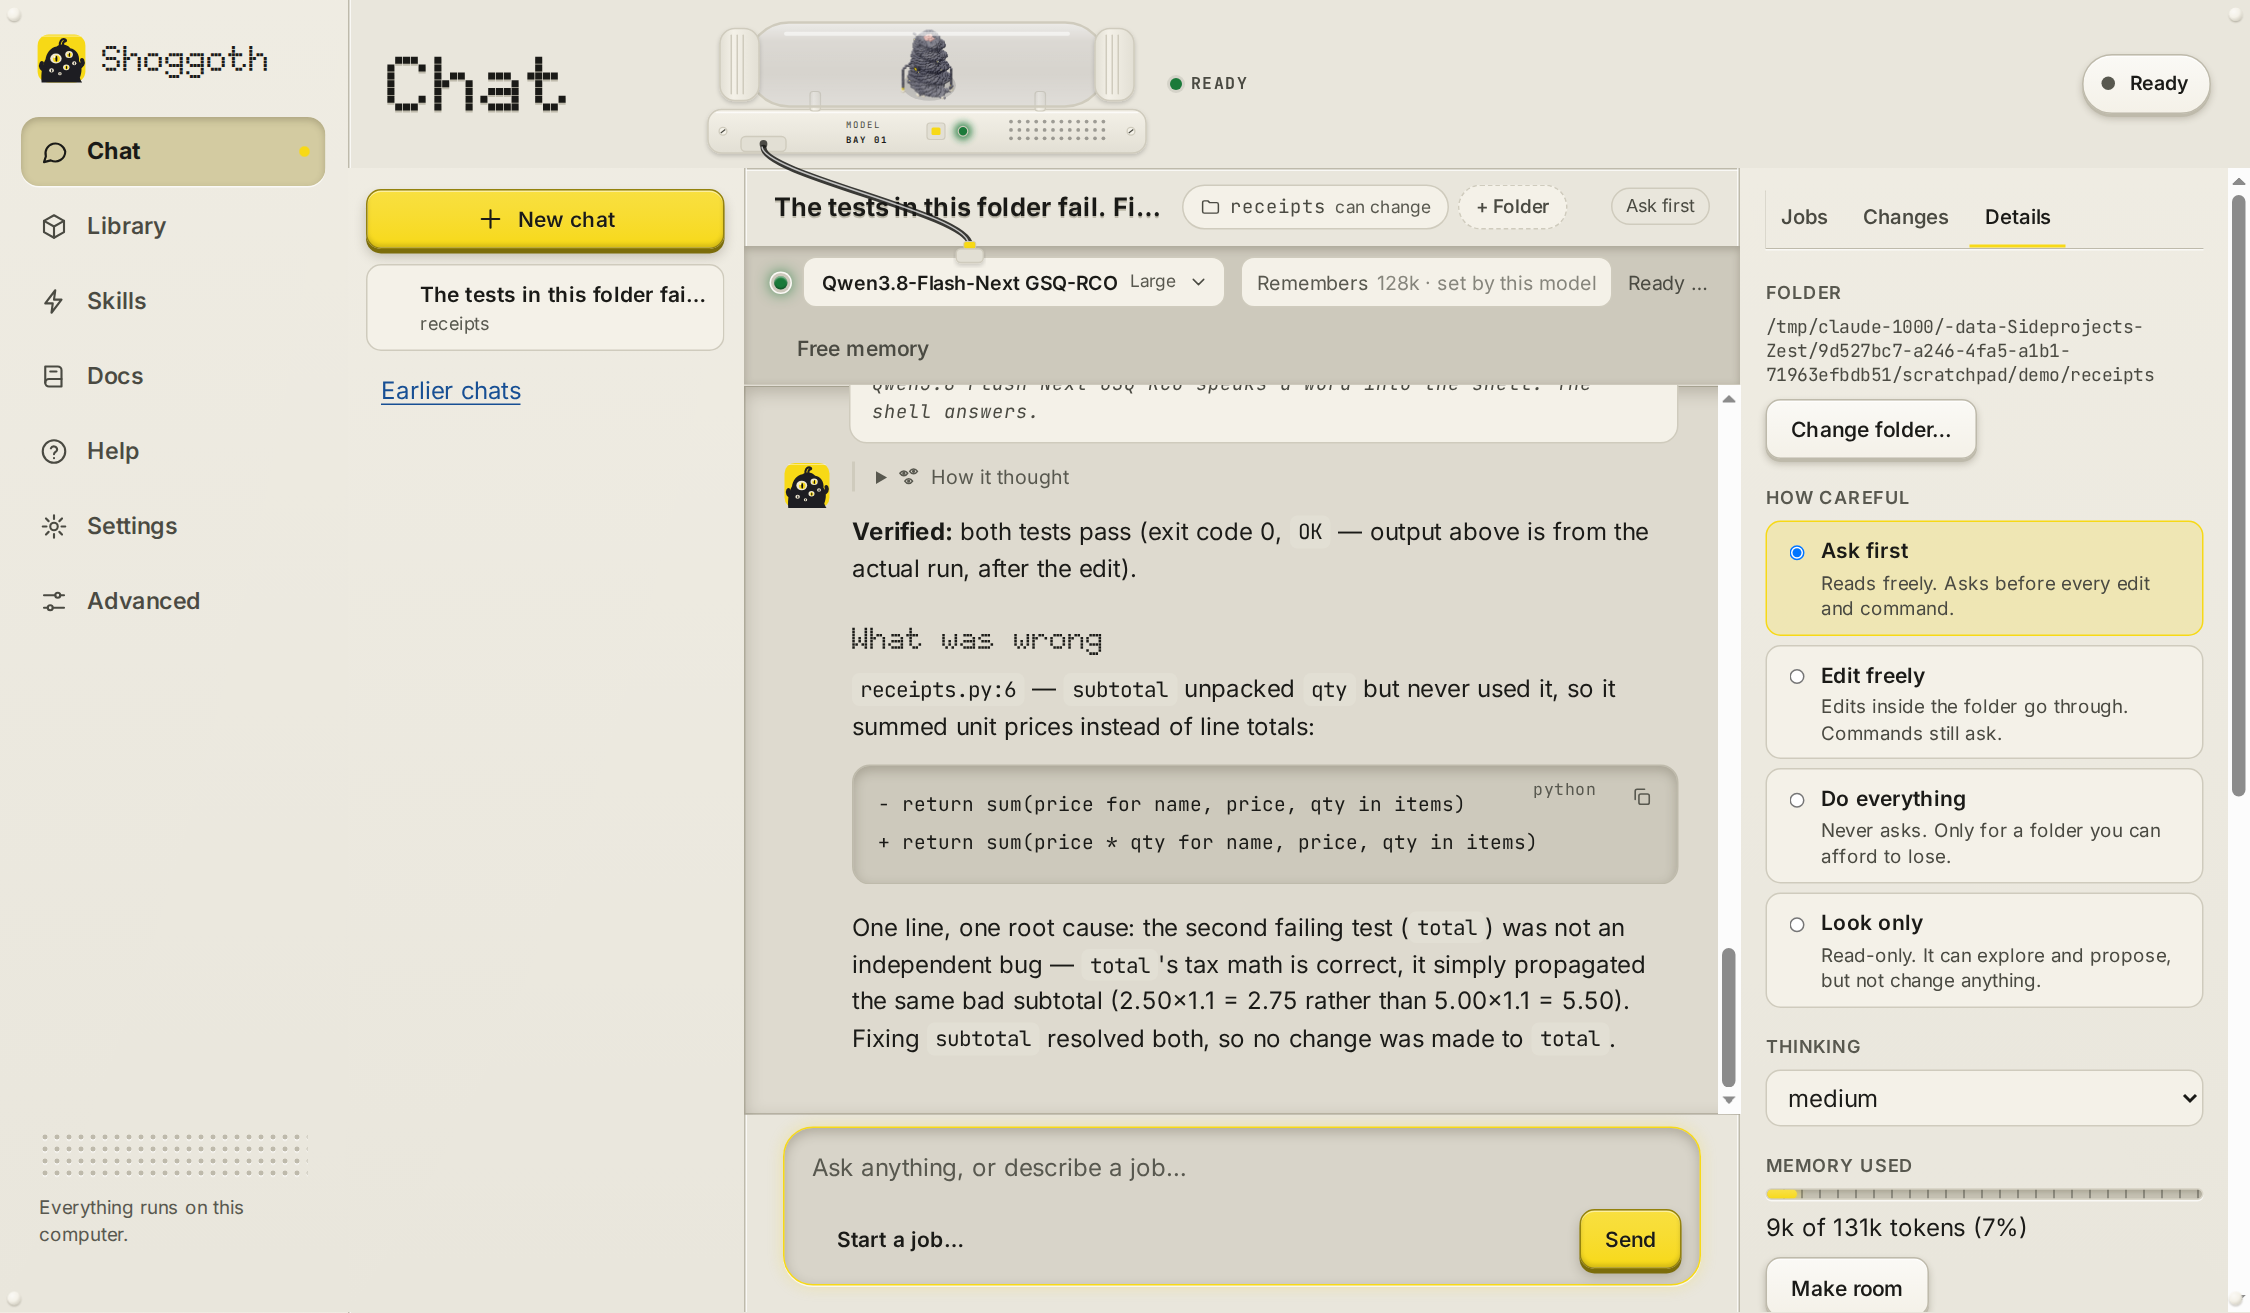
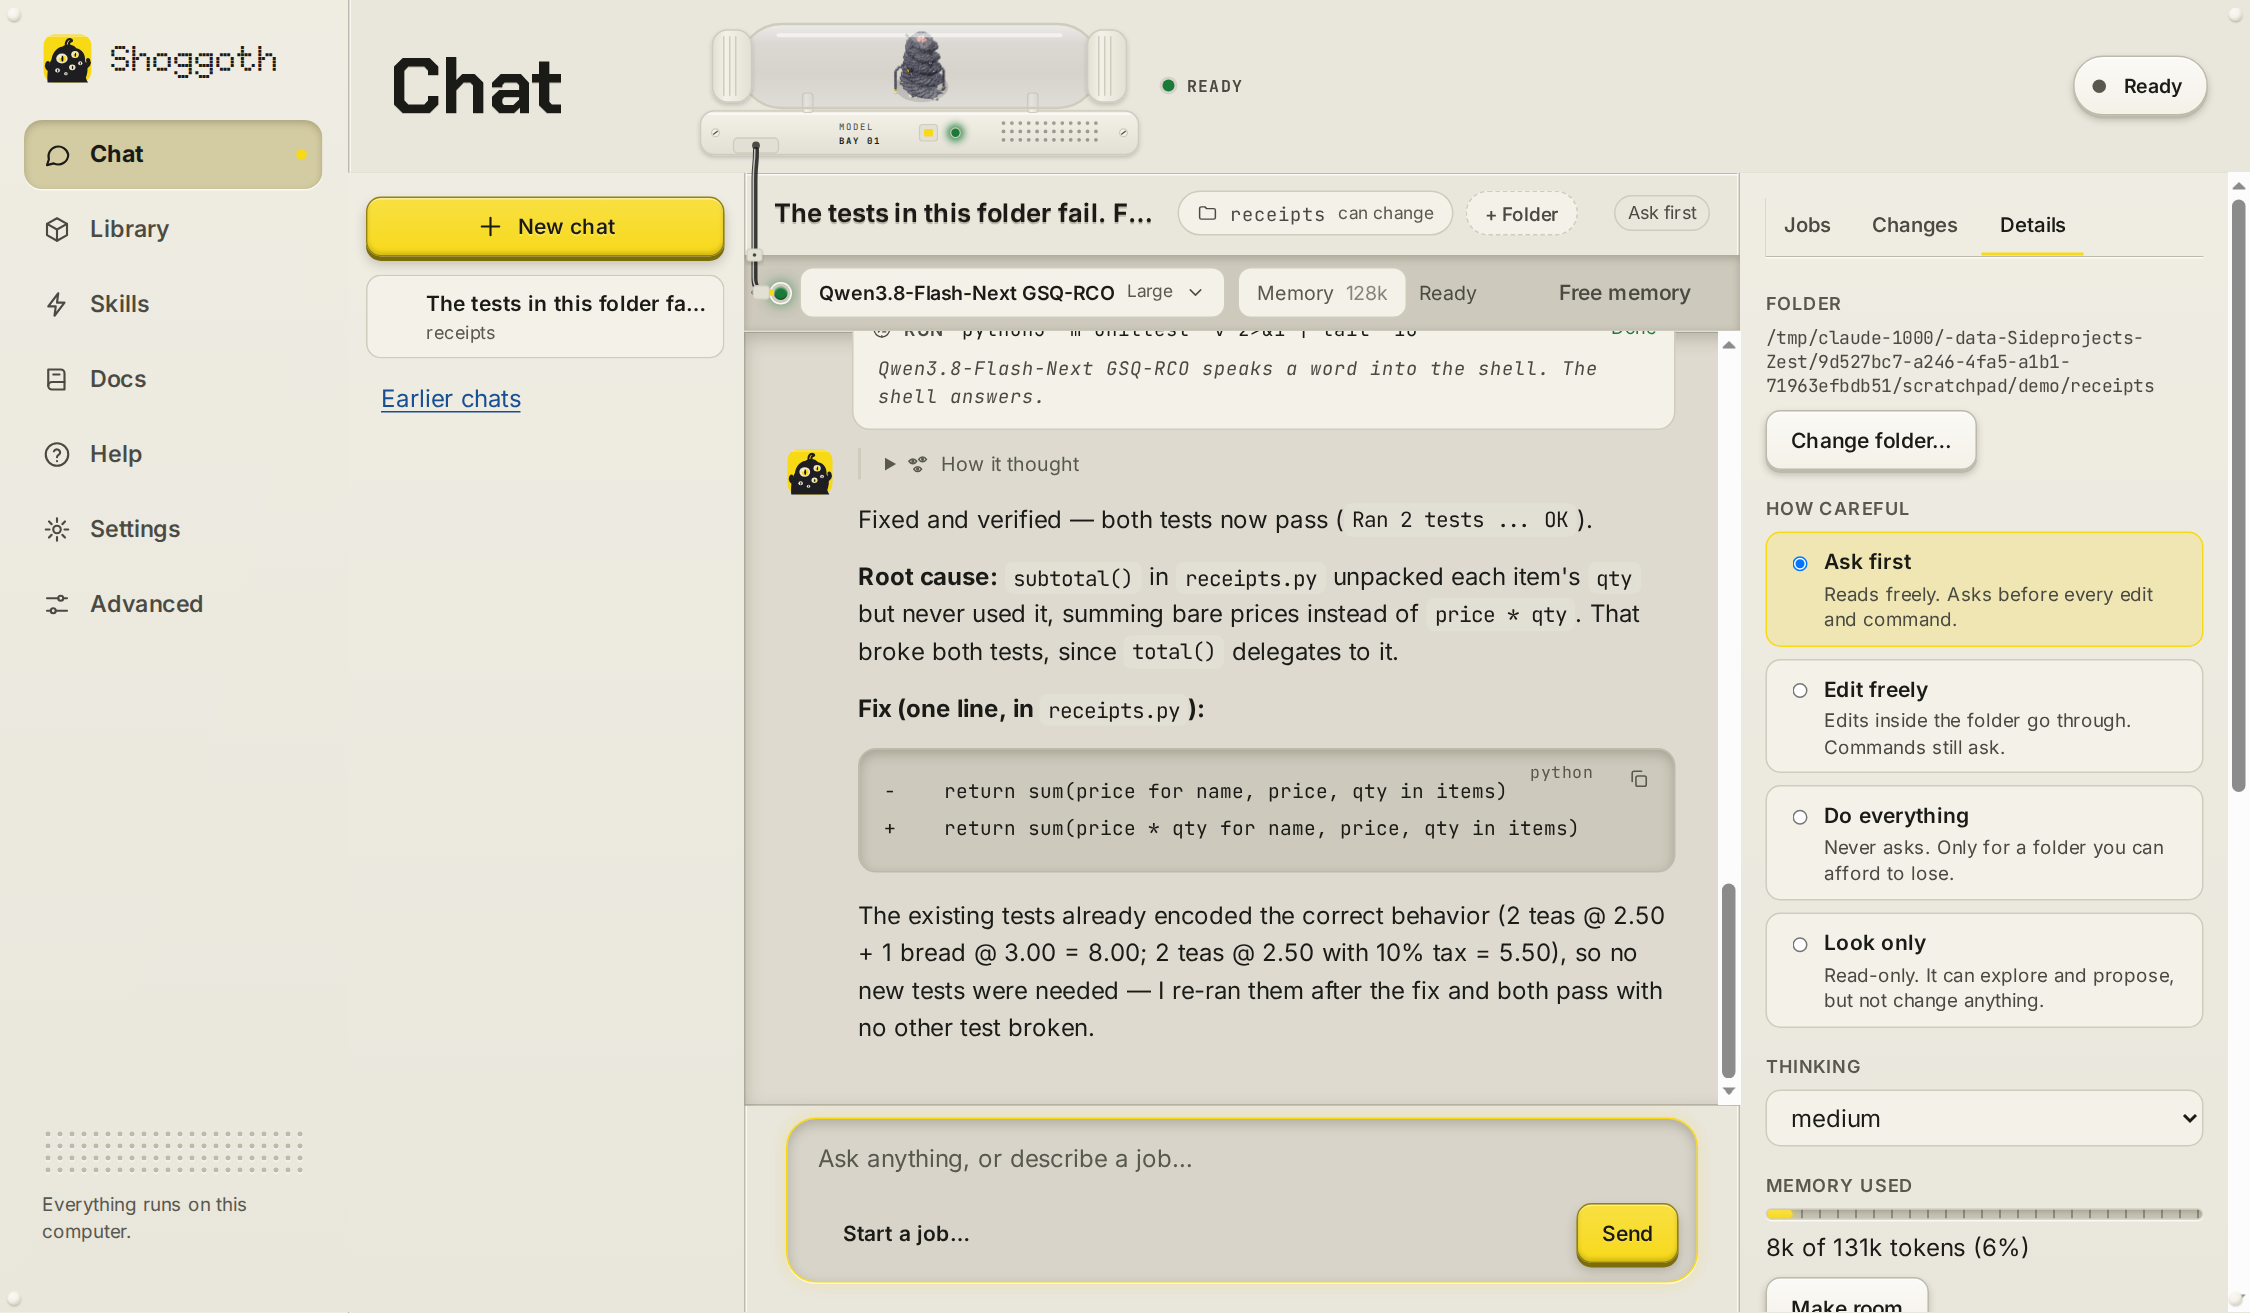
README screenshots for the new look; keep the chat's header rows on one line
Every README screenshot retaken from a real run (Qwen3.8 Flash on Strata fixing
a failing test), with the routed wire, Chakra Petch titles and the new spacing.

Taking them showed the spacing pass had pushed the chat's header rows over at
1500px: the folder chips wrapped and Free memory dropped to its own row. The
chips now stay whole and the title shortens instead, the model bar's gap is
8px again, and Free memory steps aside while the model answers (it can't free
memory then anyway).

diff --git a/shoggoth/index.html b/shoggoth/index.html
@@ -972,7 +972,7 @@ svg.gl{width:1.2em;height:1.2em;vertical-align:-.25em;stroke:currentColor;fill:n
 .cwcut{display:flex;gap:12px;align-items:center;flex-wrap:wrap;margin:.4em 0 0}
 .cwcut .cwnote{margin:0}
 /* the model bar: which model, how much context, in memory or not */
-.mbar{display:flex;align-items:center;gap:12px;padding:8px 20px;border-bottom:1px solid var(--line-soft);background:var(--surface-2);flex-wrap:wrap}
+.mbar{display:flex;align-items:center;gap:8px;padding:8px 20px;border-bottom:1px solid var(--line-soft);background:var(--surface-2);flex-wrap:wrap}
 .mbar .btn{flex:none;white-space:nowrap}
 .mbar .grow{display:none}
 .mdot{width:9px;height:9px;border-radius:50%;background:var(--steel);flex:none}
@@ -1014,7 +1014,7 @@ svg.gl{width:1.2em;height:1.2em;vertical-align:-.25em;stroke:currentColor;fill:n
 .mcard li::before{content:"✓ ";color:var(--leaf)}
 .mcard li.now::before{content:"… ";color:var(--lemon-text)}
 .mcard .mt{font-size:12.5px;color:var(--faint)}
-.mbar .btn{min-height:34px;padding:0 16px}
+.mbar .btn{min-height:34px;padding:0 12px}
 @media (max-width:900px){.mbar{padding:8px 16px}.mbar .mpick select{max-width:22ch}.mbar .grow{display:none}.mbar .mstate{flex:1 0 100%;order:9;white-space:normal}}
 @media (max-width:1180px){
   .cwside{position:absolute;right:0;top:52px;bottom:0;z-index:5;background:var(--bg);box-shadow:-12px 0 30px rgba(0,0,0,.08);display:none}
@@ -1126,7 +1126,9 @@ svg.gl{width:1.2em;height:1.2em;vertical-align:-.25em;stroke:currentColor;fill:n
 .cwchipwrap{position:relative;min-width:0}
 @media (max-width:1240px){.cwbar{flex-wrap:wrap;row-gap:8px}.cwbar .cwtitle{flex:1;min-width:0;max-width:none}.cwbar .cwchipwrap{order:5;flex:1 0 100%}}
 .cwchips .fc{white-space:nowrap}
-.cwbar .cwtitle{flex:0 1 auto;max-width:42%}
+/* the chips stay whole on one line; the chat's title gives way */
+.cwbar .cwtitle{flex:0 1 auto;min-width:6em}
+@media (min-width:1241px){.cwbar .cwchipwrap{flex:none}.cwbar .cwchips{flex-wrap:nowrap}}
 .cwside{grid-template-columns:minmax(0,1fr)}
 .cwside>*,.wbbody>*,.wbbody{min-width:0}
 .cwgrp{min-width:0}
@@ -5459,7 +5461,7 @@ function cwModelBar(){
   else if(ms.loaded) st.textContent = "Another model is in memory. Choosing this one frees it first.";
   else st.textContent = "Starts when you send a message" + (m && m.start && !m.live && m.start_s >= 45 ? ` · ${m.start.toLowerCase()}` : "");
   st.title = st.textContent;
-  const fr = $("#mbfree"); fr.hidden = !ms.loaded || loading; fr.disabled = !!CW.running;
+  const fr = $("#mbfree"); fr.hidden = !ms.loaded || loading || !!CW.running;   // it can't free memory mid-answer, so it steps aside
   // the progress card: what Shoggoth is doing while it gets a model ready
   const card = $("#mbcard");
   if(loading){

diff --git a/README.md b/README.md
@@ -269,7 +269,7 @@ Shoggoth looks the same everywhere you use it, but you can change its finish. Op
 
 ## Your data and privacy
 
-![The Help page, answering "Is my data private?"](docs/screenshots/help.png)
+![The Help page: short answers to common questions, as one list](docs/screenshots/help.png)
 
 ### Where Shoggoth keeps things
 
